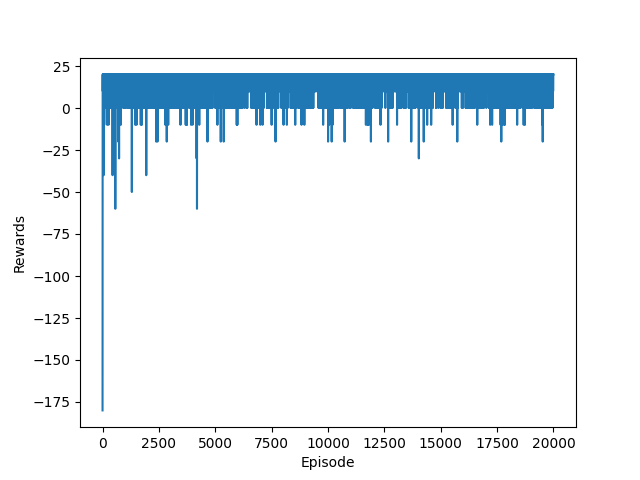
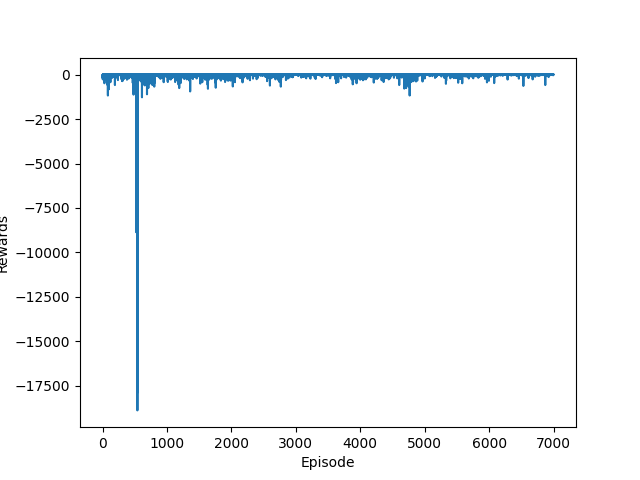
fixing goal position and reseting enviroment bug

diff --git a/qlearning_training.py b/qlearning_training.py
@@ -13,10 +13,10 @@ from matplotlib import pyplot as plt
 
 #parameters of learning
 alpha = 0.01
-gamma = 0.95
-epsilon = 0.05
+gamma = 0.6
+epsilon = 0.1
 
-NUM_EPISODES = 20000
+NUM_EPISODES = 7000
 
 '''action space:
     0 - south (up)
@@ -47,7 +47,7 @@ def next_step(q_table, enviroment, action, state, old_state): #verificar se toma
             elif action==2:
                 return  0, state+1
 
-        if state == 1 or state == 2:
+        elif state == 1 or state == 2:
             if action == 0 or action ==3: 
                 return -10, state
             elif action==1:
@@ -57,7 +57,7 @@ def next_step(q_table, enviroment, action, state, old_state): #verificar se toma
                 reward, new_state = check_old_state(old_state, state+1)
                 return reward, new_state
 
-        if state == 5 or state == 6 or state==9 or state==10:
+        elif state == 5 or state == 6 or state==9 or state==10:
             if action == 0:
                 reward, new_state = check_old_state(old_state, state-4)
                 return reward, new_state
@@ -71,7 +71,7 @@ def next_step(q_table, enviroment, action, state, old_state): #verificar se toma
                 reward, new_state = check_old_state(old_state, state-1)
                 return reward, new_state
         
-        if state == 3:
+        elif state == 3:
             if action == 0 or action==2:
                 return -10, state
             elif action == 1:
@@ -81,7 +81,7 @@ def next_step(q_table, enviroment, action, state, old_state): #verificar se toma
                 reward, new_state = check_old_state(old_state, state-1)
                 return reward, new_state
 
-        if state == 7 or state == 11:
+        elif state == 7 or state == 11:
             if action == 0:
                 reward, new_state = check_old_state(old_state, state-4)
                 return reward, new_state
@@ -94,7 +94,7 @@ def next_step(q_table, enviroment, action, state, old_state): #verificar se toma
                 reward, new_state = check_old_state(old_state, state-1)
                 return reward, new_state
 
-        if state == 4 or state ==8:
+        elif state == 4 or state ==8:
             if action == 0 :
                 reward, new_state = check_old_state(old_state, state-4)
                 return reward, new_state
@@ -106,7 +106,8 @@ def next_step(q_table, enviroment, action, state, old_state): #verificar se toma
             elif action==2:
                 reward, new_state = check_old_state(old_state, state+1)
                 return reward, new_state
-        if state == 12:
+
+        elif state == 12:
             if action == 0 :
                 reward, new_state = check_old_state(old_state, state-4)
                 return reward, new_state
@@ -114,8 +115,9 @@ def next_step(q_table, enviroment, action, state, old_state): #verificar se toma
                 return -10, state
             elif action==2:
                 reward, new_state = check_old_state(old_state, state+1)
-                return reward, new_state        
-        if state == 13 or state == 14:
+                return reward, new_state      
+                
+        elif state == 13 or state == 14:
             if action == 0 :
                 reward, new_state = check_old_state(old_state, state-4)
                 return reward, new_state
@@ -127,7 +129,8 @@ def next_step(q_table, enviroment, action, state, old_state): #verificar se toma
             elif action==2:
                 reward, new_state = check_old_state(old_state, state+1)
                 return reward, new_state
-        if state == 15:
+
+        elif state == 15:
             if action == 0 :
                 reward, new_state = check_old_state(old_state, state-4)
                 return reward, new_state
@@ -143,11 +146,17 @@ def update(q_table, enviroment, state, old_state, episode):
         action = random.choice(action_space)
     else:
         action = select_optimal_action(q_table, state)
+
+    #get the reward of choosing current action and the next state
     reward, next_state = next_step(q_table, enviroment, action, state, old_state)
+
+    #stores the old_state to not going back avoiding loopings in the same square
     old_state = state
     old_q_value = q_table[state][action]
+
     #get maximum q_value for action in next state
     next_max_state_q_value = np.argmax(q_table[next_state],axis=0)
+
     if episode == NUM_EPISODES and reward==20:
          new_q_value = (1-alpha) * old_q_value + alpha * (-1 + gamma * next_max_state_q_value)
     else:
@@ -163,6 +172,7 @@ def training_agent(q_table, enviroment, num_episodes, env_size):
     rewards = []
     penalties = []
     for x in range(num_episodes):
+        enviroment = reset_enviroment(enviroment,env_size)
         i,j = identifies_state(enviroment, env_size) #reset enviroment to learn a new goal
         k, l = identifiesgoal_state(enviroment, env_size)
         state = int(state_matrix[i][j])
@@ -172,7 +182,8 @@ def training_agent(q_table, enviroment, num_episodes, env_size):
         while int(reward) < 20 :
             state,reward,old_state = update(q_table, enviroment, state, old_state, num_episodes)
             total_reward += reward
-            epochs+=1
+            if state!=old_state:
+                epochs+=1
             if reward == -10:
                 num_penalties+=1
 
@@ -180,21 +191,26 @@ def training_agent(q_table, enviroment, num_episodes, env_size):
         steps.append(epochs)
         rewards.append(total_reward)
         penalties.append(num_penalties)
-        print("Time steps: {}, Penalties: {}, Reward: {}".format(epochs,num_penalties,total_reward))
-        training_end = time()
+
+        print("Time steps: {}, Penalties: {}, Reward: {}, Goal State: {}".format(epochs,num_penalties,total_reward,goal_state))
+
+    training_end = time()
+
     print(rewards)
     return q_table, enviroment
 
 def evaluate_training():
     print(rewards)
-    mean_rate = [np.mean(rewards[n-10:n]) if n > 10 else np.mean(rewards[:n]) 
-               for n in range(1, len(rewards))]
+
+    mean_rate = [np.mean(rewards[n-10:n]) if n > 10 else np.mean(rewards[:n]) for n in range(1, len(rewards))]
     elapsed_training_time = int(training_end-training_start)
     success_rate = np.mean(rewards)
     penalties_rate = np.mean(penalties)
     epochs_step_rate = np.mean(steps)
+
     print("\nThis environment has been solved", str(success_rate), "% of times over",  str(NUM_EPISODES), "episodes within", str(elapsed_training_time), 
     "seconds and with an average number of penalties per episode", str(penalties_rate), "and an average number of timesteps per trip of" , str(epochs_step_rate) )
+
     plt.figure(figsize=(12,8))
     plt.plot(rewards)
     plt.plot(mean_rate)
@@ -203,7 +219,7 @@ def evaluate_training():
     plt.ylabel('Reward')
     plt.savefig("mean.png")
 
-    fig = plt.figure()
+    fig = plt.figure(figsize=(12,8))
     ax1 = fig.add_subplot(111)
     ax1.plot(rewards, '-g', label = 'reward')
     ax2 = ax1.twinx()
@@ -216,7 +232,7 @@ def evaluate_training():
     plt.title("Training Progress")
     plt.savefig('trainingprocess.png')
 
-    fig = plt.figure()
+    fig = plt.figure(figsize=(12,8))
     plt.plot(steps)
     plt.xlabel('Episode')
     plt.ylabel('Steps')
@@ -228,11 +244,12 @@ def evaluate_training():
     plt.ylabel('Rewards')
     plt.savefig('rewards.png')
 
-
 def reset_enviroment(enviroment, env_size): #changes the goal to another place
     enviroment = np.zeros((env_size, env_size))
     indices = np.random.randint(env_size, size=2)
     i, j = indices[0], indices[1]
+    if(i==0==j):
+        j+=1
     enviroment[i][j] = 20
     enviroment[0][0] = 1
     return enviroment
@@ -246,10 +263,9 @@ def initialize_state_matrix(matrix, matrix_size):
     return matrix
 
 def identifies_state(enviroment,env_size):
-    env = reset_enviroment(enviroment, env_size)
     for i in range(env_size):
         for j in range(env_size):
-            if env[i][j] == 1:
+            if enviroment[i][j] == 1:
                 return i,j
 
 def identifiesgoal_state(enviroment,env_size):
@@ -258,8 +274,8 @@ def identifiesgoal_state(enviroment,env_size):
             if enviroment[i][j] == 20:
                 return i,j
 
+#plot desired matrix
 def plot_matrix(matrix, x_size, y_size):
-    #plot parameters of
     figure, ax = plt.subplots() 
     im = ax.matshow(matrix)
     for i in range(x_size):
@@ -283,8 +299,6 @@ def main():
     print(Q)
     with open('q_table.pickle', "wb") as write:
         pickle.dump(Q, write)
-
-
 
 if __name__ == '__main__':
     main()

diff --git a/q_learning_evaluate.py b/q_learning_evaluate.py
@@ -1,0 +1,38 @@
+import numpy as np 
+import pickle
+from qlearning_training import select_optimal_action, reset_enviroment, initialize_state_matrix, identifiesgoal_state, identifies_state
+
+action_space = np.array([0,1,2,3])
+
+NUM_EPISODES = 100
+
+def select_optimal_path(q_table,enviroment):
+    enviroment[0][0] = 1
+    i,j = identifies_state(enviroment, enviromentsize) #reset enviroment to learn a new goal
+    k, l = identifiesgoal_state(enviroment, enviromentsize)
+    state = int(state_matrix[i][j])
+    goal_state = int(state_matrix[k][l])
+    print(state, goal_state,'\n')
+    print('\n', q_table, '\n', enviroment)
+
+def main():
+    global state_matrix, enviromentsize
+    enviromentsize = 4
+    state_size = enviromentsize*enviromentsize #defines environment
+    env = np.zeros((enviromentsize, enviromentsize))
+    env = reset_enviroment(env, enviromentsize)
+    actions_size = enviromentsize #lef, right, up and down
+    state_matrix = initialize_state_matrix(np.zeros((enviromentsize, enviromentsize)), enviromentsize)
+    
+    with open('q_table.pickle', "rb") as read:
+        Q = pickle.load(read)
+
+    select_optimal_path(Q,env)
+
+
+
+if __name__ == '__main__':
+    main()
+
+
+
